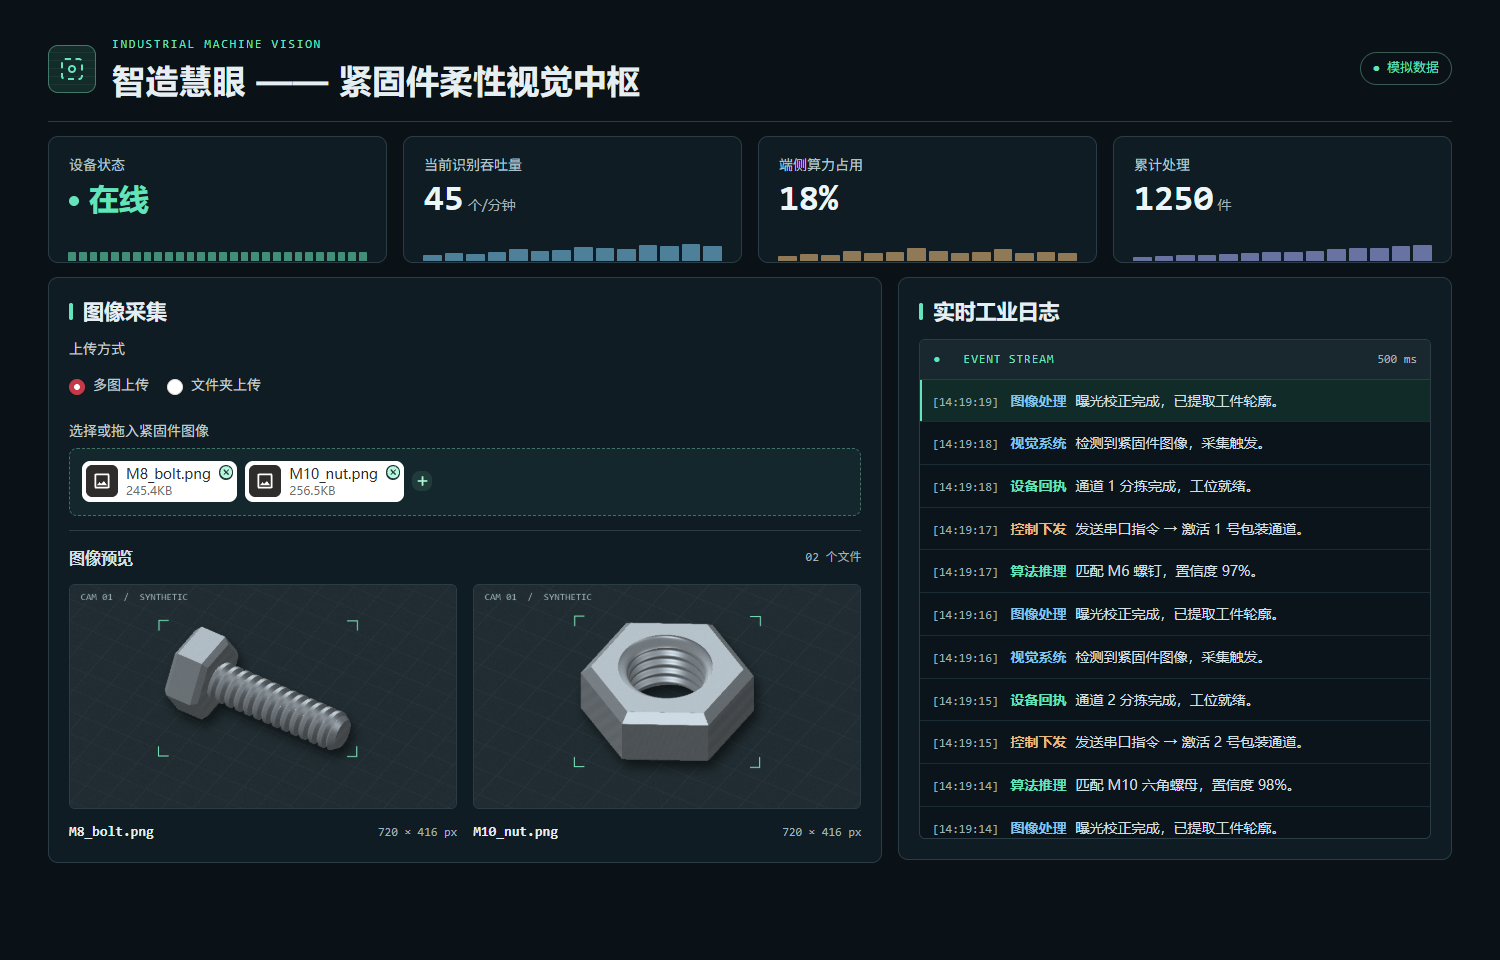
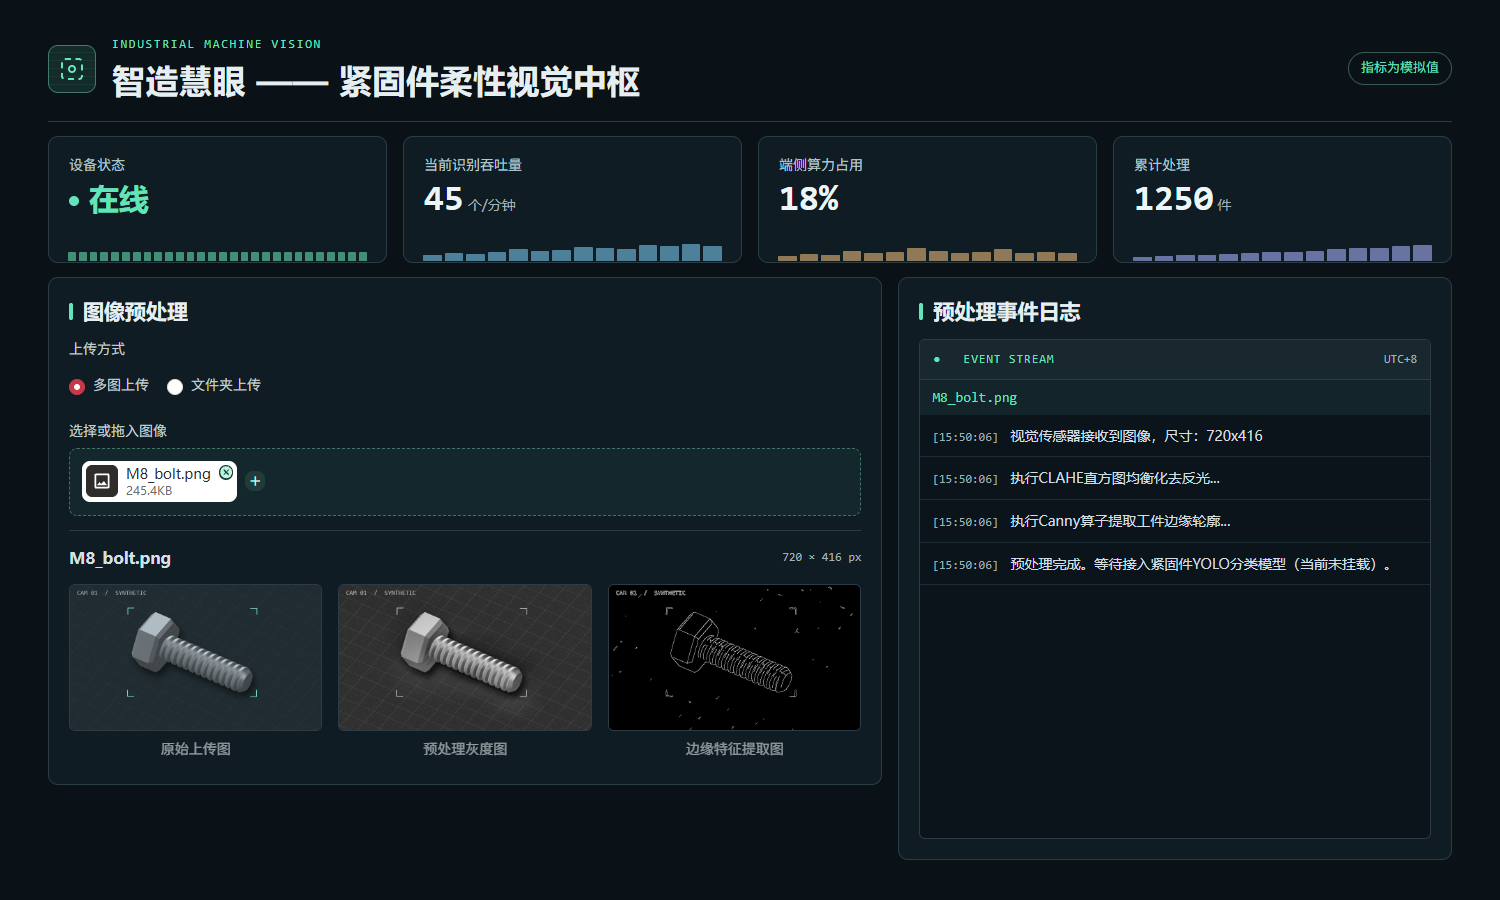
Process actual uploads with OpenCV CLAHE and Canny, logging completed steps

diff --git a/app.py b/app.py
@@ -1,116 +1,111 @@
-"""智造慧眼 · 本地工业视觉演示。启动命令：streamlit run app.py"""
+"""智造慧眼 · OpenCV 图像预处理演示。启动命令：streamlit run app.py"""
 
 from collections import deque
-from datetime import datetime, timedelta
+from datetime import datetime, timedelta, timezone
 from html import escape
 from io import BytesIO
-from pathlib import PurePosixPath
-from time import monotonic
 
+import cv2
+import numpy as np
 import streamlit as st
 from PIL import Image, ImageOps, UnidentifiedImageError
 
 
 TITLE = "智造慧眼 —— 紧固件柔性视觉中枢"
+DISPLAY_ZONE = timezone(timedelta(hours=8))
 st.set_page_config(page_title=TITLE, page_icon="⚙", layout="wide")
 
 
-# 模块一：图像输入与网格预览
-def preview_image(file):
-    """仅在内存中解码，按 EXIF 方向纠正并缩小预览图。"""
-    with Image.open(BytesIO(file.getvalue())) as original:
-        size = original.size
-        original.thumbnail((960, 720))
-        return ImageOps.exif_transpose(original).convert("RGBA"), size
+def event(message):
+    return datetime.now(DISPLAY_ZONE).strftime("%H:%M:%S"), message
+
+
+def preview_png(image, resample=Image.Resampling.LANCZOS):
+    """仅缩小界面预览，算法始终使用原始分辨率。"""
+    image.thumbnail((960, 720), resample=resample)
+    buf = BytesIO()
+    image.save(buf, format="PNG")
+    return buf.getvalue()
+
+
+def preprocess(file):
+    data = file.getvalue()
+    with Image.open(BytesIO(data)) as source:
+        # 保留原图透明度与相机方向，使三幅预览方向一致。
+        original = preview_png(ImageOps.exif_transpose(source).convert("RGBA"))
+    color = cv2.imdecode(np.frombuffer(data, dtype=np.uint8), cv2.IMREAD_COLOR)
+    if color is None:
+        raise ValueError("OpenCV 无法解码图片")
+    height, width = color.shape[:2]
+    events = [event(f"视觉传感器接收到图像，尺寸：{width}x{height}")]
+    gray = cv2.cvtColor(color, cv2.COLOR_BGR2GRAY)
+    del color
+    events.append(event("执行CLAHE直方图均衡化去反光..."))
+    enhanced = cv2.createCLAHE(clipLimit=2.0, tileGridSize=(8, 8)).apply(gray)
+    events.append(event("执行Canny算子提取工件边缘轮廓..."))
+    edges = cv2.Canny(enhanced, 100, 200)
+    previews = (original, preview_png(Image.fromarray(enhanced)),
+                preview_png(Image.fromarray(edges), Image.Resampling.NEAREST))
+    events.append(event("预处理完成。等待接入紧固件YOLO分类模型（当前未挂载）。"))
+    return previews, (width, height), events
 
 
 def image_workspace():
-    st.html('<h2>图像采集</h2>')
+    st.html('<h2>图像预处理</h2>')
     mode = st.radio("上传方式", ["多图上传", "文件夹上传"], horizontal=True)
     directory = mode == "文件夹上传"
     files = st.file_uploader(
-        "选择图像文件夹" if directory else "选择或拖入紧固件图像",
+        "选择图像文件夹" if directory else "选择或拖入图像",
         type=["png", "jpg", "jpeg", "webp", "bmp"],
         accept_multiple_files="directory" if directory else True,
         key="folder_files" if directory else "image_files",
     )
-    st.html(
-        '<div class="sectionline"><strong>图像预览</strong>'
-        f'<span>{len(files):02d} 个文件</span></div>'
-    )
+    # 上传实例有独立 ID。同名新文件会重新处理，页面重绘沿用本会话结果。
+    active = {file.file_id for file in files}
+    results = st.session_state.setdefault("previews", {})
+    for key in results.keys() - active:
+        del results[key]
+    history = st.session_state.setdefault("processing_history", deque(maxlen=25))
     if not files:
-        st.html(
-            '<div class="empty-grid"><b>等待图像输入</b>'
-            '<span>上传后可在此查看图像和原始尺寸</span></div>'
+        st.html('<div class="empty-grid"><b>等待图像输入</b>'
+                '<span>上传后可对比原图、增强灰度图和边缘图</span></div>')
+    for file in files:
+        if file.file_id not in results:
+            try:
+                previews, size, events = preprocess(file)
+            except (UnidentifiedImageError, OSError, ValueError, cv2.error, Image.DecompressionBombError):
+                results[file.file_id] = None
+            else:
+                results[file.file_id] = (previews, size)
+                history.appendleft((file.name, events))
+        result = results[file.file_id]
+        if result is None:
+            st.warning(f"无法处理图像「{file.name}」，请检查文件内容。")
+            continue
+        previews, (width, height) = result
+        st.html(f'<div class="sectionline"><strong>{escape(file.name)}</strong>'
+                f'<span>{width} × {height} px</span></div>')
+        labels = ("原始上传图", "预处理灰度图", "边缘特征提取图")
+        for column, image, label in zip(st.columns(3), previews, labels):
+            column.image(image, caption=label, width="stretch", output_format="PNG")
+    return history
+
+
+def processing_console(history):
+    groups = []
+    for name, events in history:
+        rows = "".join(
+            f'<div class="event"><time>[{time}]</time> <span>{message}</span></div>'
+            for time, message in events
         )
-        return
-    for start in range(0, len(files), 2):
-        columns = st.columns(2)
-        for column, file in zip(columns, files[start:start + 2]):
-            name = PurePosixPath(file.name).name
-            with column:
-                try:
-                    image, (width, height) = preview_image(file)
-                except (UnidentifiedImageError, OSError, ValueError, Image.DecompressionBombError):
-                    st.warning(f"无法预览图像「{name}」，请检查文件内容。")
-                    continue
-                st.image(image, width="stretch")
-                st.html(
-                    f'<div class="fileinfo"><strong>{escape(name)}</strong>'
-                    f'<span>{width} × {height} px</span></div>'
-                )
-
-
-# 模块二：独立定时刷新的模拟控制台
-PARTS = [("M8 六角螺栓", 95, 3), ("M10 六角螺母", 98, 2), ("M6 螺钉", 97, 1)]
-
-
-def mock_event(sequence, timestamp):
-    cycle, step = divmod(sequence, 5)
-    part, confidence, channel = PARTS[cycle % len(PARTS)]
-    events = [
-        ("vision", "视觉系统", "检测到紧固件图像，采集触发。"),
-        ("frame", "图像处理", "曝光校正完成，已提取工件轮廓。"),
-        ("infer", "算法推理", f"匹配 {part}，置信度 {confidence}%。"),
-        ("route", "控制下发", f"发送串口指令 → 激活 {channel} 号包装通道。"),
-        ("ack", "设备回执", f"通道 {channel} 分拣完成，工位就绪。"),
-    ]
-    return (timestamp.strftime("%H:%M:%S"), *events[step])
-
-
-@st.fragment(run_every=0.5)
-def live_console():
-    state = st.session_state
-    now = datetime.now().astimezone()
-    tick = monotonic()
-    if "events" not in state:
-        # 用过去六秒的模拟事件填充首屏，后续仅增加新事件。
-        state.events = deque(maxlen=100)
-        for index in range(12):
-            state.events.appendleft(mock_event(index, now - timedelta(seconds=(11 - index) * 0.5)))
-        state.sequence = 12
-        state.last_tick = tick
-    else:
-        # 上传重绘、浏览器切换后台后，仍按半秒时间轴生成最近的模拟事件。
-        due = int((tick - state.last_tick) / 0.5)
-        for offset in range(max(0, due - state.events.maxlen), due):
-            scheduled = state.last_tick + (offset + 1) * 0.5
-            timestamp = now - timedelta(seconds=tick - scheduled)
-            state.events.appendleft(mock_event(state.sequence + offset, timestamp))
-        state.sequence += due
-        state.last_tick += due * 0.5
-
-    rows = "".join(
-        f'<div class="event {kind}"><time>[{timestamp}]</time>'
-        f'<div><b>{source}</b><span>{message}</span></div></div>'
-        for timestamp, kind, source, message in state.events
-    )
-    slot = st.empty()
-    slot.html(
+        groups.append(f'<div class="logfile">{escape(name)}</div>{rows}')
+    contents = "".join(groups) or '<div class="logfile">等待上传图像</div>'
+    st.html(
         '<div class="terminal"><div class="termbar"><span>● &nbsp; EVENT STREAM</span>'
-        '<span>500 ms</span></div><div class="eventlist" tabindex="0" '
-        'aria-label="模拟工业日志，最新事件在前">' + rows + '</div></div>',
+        '<span>UTC+8</span></div><div class="eventlist" tabindex="0" aria-label="预处理日志">'
+        + contents + '</div></div>'
     )
+
 
 
 # 组合页面
@@ -177,8 +172,8 @@ border-bottom:1px solid var(--line)}
 .event{display:flex;gap:12px;align-items:baseline;padding:10px 12px;border-bottom:1px solid #1c2c35;
 font-size:14px;line-height:1.55}.event:first-child{background:#102b28;box-shadow:inset 2px 0 #65e3bb}
 .event time{font:12px var(--mono);white-space:nowrap;color:#9eafb7}
-.event b{color:#83c3ec;font-weight:600;margin-right:9px}.event span{color:#d2dee2}
-.event.infer b,.event.ack b{color:var(--mint)}.event.route b{color:#e7bc83}
+.logfile{padding:9px 12px;color:var(--mint);font:14px var(--mono);overflow-wrap:anywhere;background:#13252a}.event span{color:#d2dee2}
+.sectionline strong{overflow-wrap:anywhere}
 @media(max-width:760px){.stMainBlockContainer{padding:1.2rem .9rem}.mast{gap:10px}.tag{padding:4px 7px}
 .mark{flex-basis:35px;height:35px}.st-key-vision,.st-key-console{padding:14px}.fileinfo{gap:2px}}
 </style>
@@ -190,7 +185,7 @@ def dashboard():
     st.html(
         '<div class="mast"><div class="mark" aria-hidden="true"></div><div>'
         '<div class="eyebrow">INDUSTRIAL MACHINE VISION</div>'
-        f'<h1>{TITLE}</h1></div><span class="tag">● 模拟数据</span></div>',
+        f'<h1>{TITLE}</h1></div><span class="tag">指标为模拟值</span></div>',
     )
     metrics = [
         ("status", "设备状态", "在线", "#5ccba5", [9]*28),
@@ -205,10 +200,10 @@ def dashboard():
             st.html(f'<div class="trend" aria-hidden="true" style="--color:{color}">{bars}</div>')
     left, right = st.columns([6, 4])
     with left.container(key="vision"):
-        image_workspace()
+        history = image_workspace()
     with right.container(key="console"):
-        st.html("<h2>实时工业日志</h2>")
-        live_console()
+        st.html("<h2>预处理事件日志</h2>")
+        processing_console(history)
 
 
 if __name__ == "__main__":
